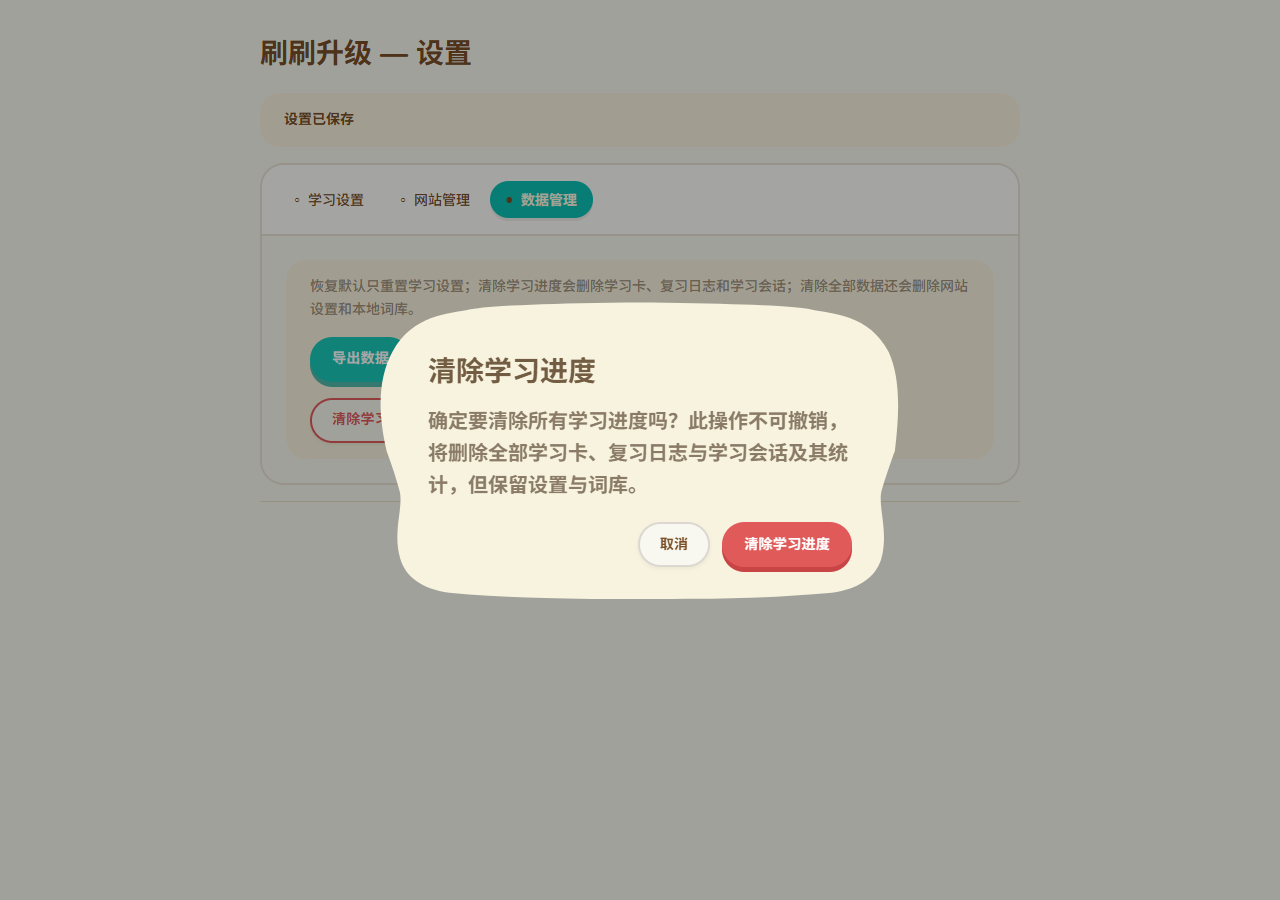
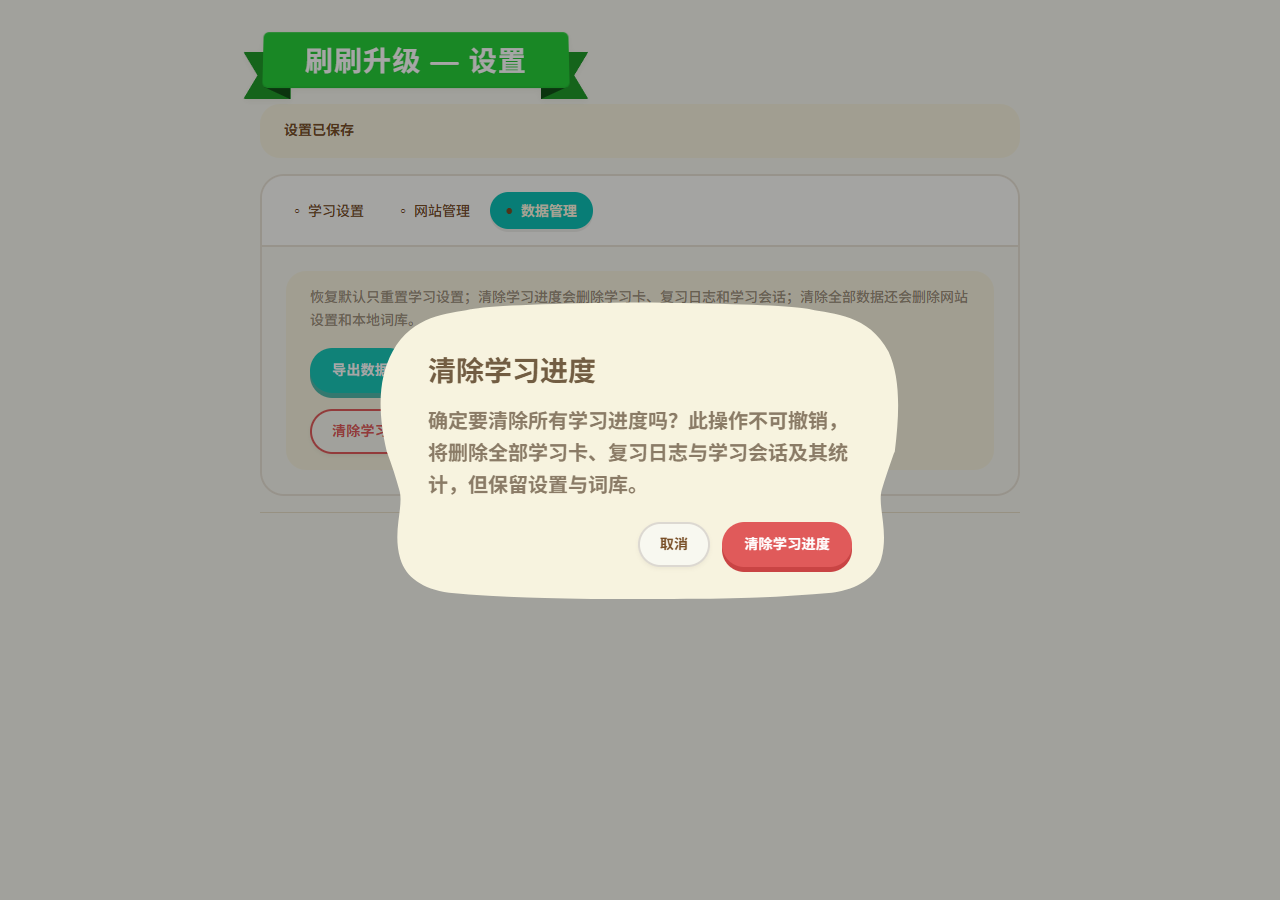
各页面主标题改用库 Title 飘带
设置/统计页 h1 包裹 Title size=large，Popup 品牌区换 Title size=small，DevTools 开发数据页 h1 换 Title（h2 不变）；沿用 onboarding 的 h1 包裹模式保持标题语义。设置页飘带在窄视口（<=420px）把字号降到 24px，修复 320px 下 nowrap 飘带的横向溢出。

验证：M3b/M2/M3c 采集复跑（320/360/420/200% 均无横向溢出，历史截图已恢复），options/stats/popup 既有 e2e 与 DevToolsApp 单测通过；新增标题采集截图与断言（CAPTURE_FIXES）。

diff --git a/e2e/migration-ui-fixes.spec.ts b/e2e/migration-ui-fixes.spec.ts
@@ -15,6 +15,7 @@ import { expect, pageUrl, test } from './fixtures';
  * - 设置页数字输入框聚焦态：黄色焦点环跟随 50px 胶囊圆角（原方角黄框已修复）；
  * - primary 按钮薄荷品牌强调（设置页保存/导出、遮罩提交/继续、启用提示启用），
  *   并对照 danger（红色，含 Modal 确认按钮）与 default 按钮不受影响；
+ * - 主标题飘带（设置 / 统计 / Popup 品牌区）与 320px 窄视口无横向溢出；
  * - 运行记录写入 .output/migration-ui-fixes-capture.json。
  */
 const captureEnabled = process.env.CAPTURE_FIXES === '1';
@@ -598,5 +599,125 @@ test.describe('UI 修正采集', () => {
     expect(style.boxShadow).toBe('none');
 
     await page.close();
+  });
+
+  test('主标题飘带（设置 / 统计 / Popup）：库 Title 与 320px 无溢出', async ({
+    context,
+    extensionId,
+  }) => {
+    interface TitleAreaInfo {
+      hasRibbon: boolean;
+      fontSize: string | null;
+      text: string;
+      rect: { x: number; y: number; width: number; height: number } | null;
+    }
+    async function readTitleArea(page: Page, selector: string): Promise<TitleAreaInfo> {
+      return page.evaluate((sel) => {
+        const root = document.querySelector(sel);
+        const ribbon = root?.querySelector('[class^="animal-ribbon-"]') ?? null;
+        const rect = ribbon?.getBoundingClientRect() ?? null;
+        const style = ribbon ? getComputedStyle(ribbon) : null;
+        return {
+          hasRibbon: ribbon !== null,
+          fontSize: style?.fontSize ?? null,
+          text: (root?.textContent ?? '').replace(/\s+/g, ' ').trim(),
+          rect:
+            rect === null ? null : { x: rect.x, y: rect.y, width: rect.width, height: rect.height },
+        };
+      }, selector);
+    }
+    const clipAround = (
+      rect: { x: number; y: number; width: number; height: number },
+      viewport: { width: number; height: number },
+    ) => ({
+      x: Math.max(0, rect.x - 24),
+      y: Math.max(0, rect.y - 24),
+      width: Math.min(viewport.width, rect.x + rect.width + 24) - Math.max(0, rect.x - 24),
+      height: Math.min(viewport.height, rect.y + rect.height + 24) - Math.max(0, rect.y - 24),
+    });
+
+    // 设置页：h1 包裹 Title size=large，桌面字号保持 28px。
+    const options = await context.newPage();
+    await options.setViewportSize({ width: 1280, height: 900 });
+    await options.goto(pageUrl(extensionId, 'options.html'));
+    await options.getByRole('heading', { level: 1, name: '刷刷升级 — 设置' }).waitFor();
+    const optionsTitle = await readTitleArea(options, '.bingeup-title');
+    expect(optionsTitle.hasRibbon).toBe(true);
+    expect(optionsTitle.text).toBe('刷刷升级 — 设置');
+    expect(optionsTitle.fontSize).toBe('28px');
+    await captureClip(
+      options,
+      'title-options',
+      'title-options.png',
+      clipAround(optionsTitle.rect!, { width: 1280, height: 900 }),
+      { text: optionsTitle.text, fontSize: optionsTitle.fontSize },
+    );
+    // 窄视口（320px）：飘带字号降为 24px，无横向溢出。
+    await options.setViewportSize({ width: 320, height: 800 });
+    await expect
+      .poll(async () => (await readTitleArea(options, '.bingeup-title')).fontSize, {
+        timeout: 3_000,
+        message: '窄视口飘带字号未切换到 24px',
+      })
+      .toBe('24px');
+    const optionsNarrow = await options.evaluate(() => ({
+      scrollWidth: document.documentElement.scrollWidth,
+      clientWidth: document.documentElement.clientWidth,
+    }));
+    expect(optionsNarrow.scrollWidth, 'options @320').toBeLessThanOrEqual(
+      optionsNarrow.clientWidth,
+    );
+    const optionsNarrowTitle = await readTitleArea(options, '.bingeup-title');
+    await captureClip(
+      options,
+      'title-options-320',
+      'title-options-320.png',
+      clipAround(optionsNarrowTitle.rect!, { width: 320, height: 800 }),
+      { fontSize: optionsNarrowTitle.fontSize, ...optionsNarrow },
+    );
+    await options.close();
+
+    // 统计页：h1 包裹 Title size=large。
+    const stats = await context.newPage();
+    await stats.setViewportSize({ width: 1280, height: 900 });
+    await stats.goto(pageUrl(extensionId, 'stats.html'));
+    await stats.getByRole('heading', { level: 1, name: '学习统计' }).waitFor();
+    const statsTitle = await readTitleArea(stats, '.bingeup-stats h1');
+    expect(statsTitle.hasRibbon).toBe(true);
+    expect(statsTitle.text).toBe('学习统计');
+    expect(statsTitle.fontSize).toBe('28px');
+    await captureClip(
+      stats,
+      'title-stats',
+      'title-stats.png',
+      clipAround(statsTitle.rect!, { width: 1280, height: 900 }),
+      { text: statsTitle.text, fontSize: statsTitle.fontSize },
+    );
+    await stats.close();
+
+    // Popup 品牌区：Title size=small（14px 飘带），340 与 320 均无横向溢出。
+    const popup = await context.newPage();
+    await popup.setViewportSize({ width: 340, height: 640 });
+    await popup.goto(pageUrl(extensionId, 'popup.html'));
+    await popup.locator('.bingeup-brand').waitFor();
+    const brandTitle = await readTitleArea(popup, '.bingeup-brand');
+    expect(brandTitle.hasRibbon).toBe(true);
+    expect(brandTitle.text).toContain('刷刷升级');
+    expect(brandTitle.fontSize).toBe('14px');
+    await captureClip(
+      popup,
+      'title-popup-brand',
+      'title-popup-brand.png',
+      clipAround(brandTitle.rect!, { width: 340, height: 640 }),
+      { text: brandTitle.text, fontSize: brandTitle.fontSize },
+    );
+    await popup.setViewportSize({ width: 320, height: 640 });
+    await popup.waitForTimeout(200);
+    const popupNarrow = await popup.evaluate(() => ({
+      scrollWidth: document.documentElement.scrollWidth,
+      clientWidth: document.documentElement.clientWidth,
+    }));
+    expect(popupNarrow.scrollWidth, 'popup @320').toBeLessThanOrEqual(popupNarrow.clientWidth);
+    await popup.close();
   });
 });

diff --git a/src/ui/options/OptionsApp.tsx b/src/ui/options/OptionsApp.tsx
@@ -1,5 +1,5 @@
 import { useCallback, useEffect, useRef, useState, type ReactNode } from 'react';
-import { Button, Card, Input, Modal, Select, Switch, Tabs, Tag } from 'animal-island-ui';
+import { Button, Card, Input, Modal, Select, Switch, Tabs, Tag, Title } from 'animal-island-ui';
 import { messageClient } from '@/messaging/message-client';
 import { BUILT_IN_DECKS } from '@/dictionary/built-in/decks';
 import { addWebsite } from '@/sites/site-access';
@@ -167,7 +167,9 @@ export function OptionsApp(): JSX.Element {
   if (error !== null) {
     return (
       <IslandPage className="bingeup-options" label="刷刷升级设置">
-        <h1 className="bingeup-title">刷刷升级 — 设置</h1>
+        <h1 className="bingeup-title">
+          <Title size="large">刷刷升级 — 设置</Title>
+        </h1>
         <Card className="bingeup-card">
           <p className="bingeup-error">{error.message}</p>
           {notice !== null && (
@@ -194,7 +196,9 @@ export function OptionsApp(): JSX.Element {
   if (settings === null) {
     return (
       <IslandPage className="bingeup-options" label="刷刷升级设置">
-        <h1 className="bingeup-title">刷刷升级 — 设置</h1>
+        <h1 className="bingeup-title">
+          <Title size="large">刷刷升级 — 设置</Title>
+        </h1>
         <Card className="bingeup-card">
           <p className="bingeup-hint">加载中…</p>
         </Card>
@@ -411,7 +415,9 @@ export function OptionsApp(): JSX.Element {
 
   return (
     <IslandPage className="bingeup-options" label="刷刷升级设置">
-      <h1 className="bingeup-title">刷刷升级 — 设置</h1>
+      <h1 className="bingeup-title">
+        <Title size="large">刷刷升级 — 设置</Title>
+      </h1>
 
       {notice !== null && (
         <Card className="bingeup-notice">

diff --git a/src/ui/stats/StatsApp.tsx b/src/ui/stats/StatsApp.tsx
@@ -1,5 +1,5 @@
 import { useEffect, useState } from 'react';
-import { Card, Progress, Tabs, Tag, type TagColor } from 'animal-island-ui';
+import { Card, Progress, Tabs, Tag, Title, type TagColor } from 'animal-island-ui';
 import type { LearningStats } from '@/types';
 import { StatsService } from '@/stats/stats-service';
 import { CardRepository } from '@/storage/repositories/card-repository';
@@ -69,7 +69,9 @@ export function StatsApp(): JSX.Element {
   if (error !== null) {
     return (
       <IslandPage className="bingeup-stats" label="学习统计">
-        <h1>学习统计</h1>
+        <h1>
+          <Title size="large">学习统计</Title>
+        </h1>
         <Card className="bingeup-stats-state-card">
           <p className="bingeup-stats-error">加载失败：{error}</p>
         </Card>
@@ -80,7 +82,9 @@ export function StatsApp(): JSX.Element {
   if (stats === null) {
     return (
       <IslandPage className="bingeup-stats" label="学习统计">
-        <h1>学习统计</h1>
+        <h1>
+          <Title size="large">学习统计</Title>
+        </h1>
         <Card className="bingeup-stats-state-card">
           <p className="bingeup-stats-loading">加载中…</p>
         </Card>
@@ -305,7 +309,9 @@ export function StatsApp(): JSX.Element {
 
   return (
     <IslandPage className="bingeup-stats" label="学习统计">
-      <h1>学习统计</h1>
+      <h1>
+        <Title size="large">学习统计</Title>
+      </h1>
       <Tabs className="bingeup-stats-tabs" aria-label="统计分区" items={tabsItems} />
     </IslandPage>
   );

diff --git a/src/ui/dev-tools/DevToolsApp.tsx b/src/ui/dev-tools/DevToolsApp.tsx
@@ -1,4 +1,5 @@
 import { useCallback, useEffect, useState } from 'react';
+import { Title } from 'animal-island-ui';
 import type { CardRecord, SchedulerState } from '@/types';
 import type { DevDataSnapshot } from '@/dev-tools/messages';
 import { getDevDataSnapshot } from '@/dev-tools/message-client';
@@ -33,7 +34,9 @@ export function DevToolsApp(): JSX.Element {
       <header className="bingeup-dev-page-header">
         <div>
           <p className="bingeup-dev-eyebrow">BingeUp / development</p>
-          <h1>开发数据</h1>
+          <h1>
+            <Title size="large">开发数据</Title>
+          </h1>
           <p>只读查看当前本地学习卡、复习日志、会话日志与 FSRS 状态。</p>
           {refreshedAt !== null && (
             <small className="bingeup-dev-refreshed-at">

diff --git a/src/entrypoints/options/options.css b/src/entrypoints/options/options.css
@@ -275,3 +275,16 @@ body {
     font-size: 13px;
   }
 }
+
+/* 标题飘带（2026-10-14 修正）：窄视口下「刷刷升级 — 设置」的 nowrap 飘带
+   （Title size=large 的 28px 字号）比内容列宽更宽，320px 实测横向溢出
+   （scrollWidth 345 > 320）。库 Title 的内部尺寸全部使用 em，这里把飘带
+   字号降到 24px 让整体等比缩小，标题完整可见且不产生横向滚动。
+   选择器基于库的稳定类名前缀 animal-ribbon-<hash>（内层飘带根元素；
+   animal-ribbonBack 等装饰类不匹配该前缀）；字号覆盖用 !important，
+   因为 size 属性会以内联 font-size 下发。 */
+@media (max-width: 420px) {
+  .bingeup-title [class^='animal-ribbon-'] {
+    font-size: 24px !important;
+  }
+}

diff --git a/src/ui/popup/PopupApp.tsx b/src/ui/popup/PopupApp.tsx
@@ -1,5 +1,5 @@
 import { lazy, Suspense, useCallback, useEffect, useState, type ReactNode } from 'react';
-import { Button, Card, Switch, Tag, type TagColor } from 'animal-island-ui';
+import { Button, Card, Switch, Tag, Title, type TagColor } from 'animal-island-ui';
 import {
   AlertTriangleIcon,
   BanIcon,
@@ -81,7 +81,7 @@ function PopupHeader(): JSX.Element {
     <header className="bingeup-header">
       <div className="bingeup-brand" aria-label="刷刷升级">
         <img className="bingeup-brand-mascot" src={mascotUrl} alt="" aria-hidden="true" />
-        <strong>刷刷升级</strong>
+        <Title size="small">刷刷升级</Title>
       </div>
       <Button
         type="text"

diff --git a/tests/unit/dev-tools/DevToolsApp.test.tsx b/tests/unit/dev-tools/DevToolsApp.test.tsx
@@ -69,4 +69,12 @@ describe('开发数据页', () => {
     await waitFor(() => expect(screen.getByText('加载失败：数据库读取失败')).toBeInTheDocument());
     expect(screen.queryByText('card-fsrs')).not.toBeInTheDocument();
   });
+
+  it('主标题使用库 Title 飘带并保持一级标题语义', async () => {
+    render(<DevToolsApp />);
+
+    const heading = screen.getByRole('heading', { level: 1, name: '开发数据' });
+    expect(heading.querySelector('[class^="animal-ribbon-"]')).not.toBeNull();
+    await screen.findByText('card-fsrs');
+  });
 });

diff --git a/src/entrypoints/popup/popup.css b/src/entrypoints/popup/popup.css
@@ -47,12 +47,8 @@ body {
   object-fit: contain;
 }
 
-.bingeup-brand strong {
-  overflow-wrap: anywhere;
-  color: var(--island-text-color);
-  font-size: 16px;
-  font-weight: 900;
-}
+/* 品牌文字自 2026-10-14 起使用库 Title 飘带（size=small），字号与配色来自库组件，
+   本文件不再覆盖；原生 strong 规则已随替换删除。 */
 
 /* ─── 站点状态卡 ─────────────────────────────────────────── */
 
